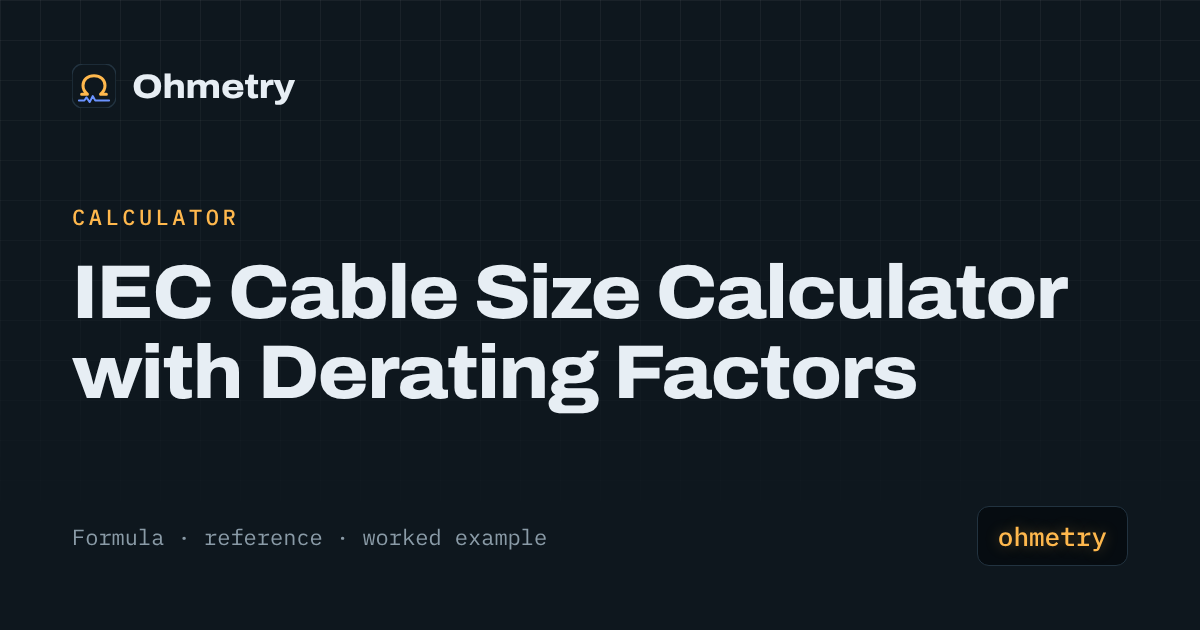
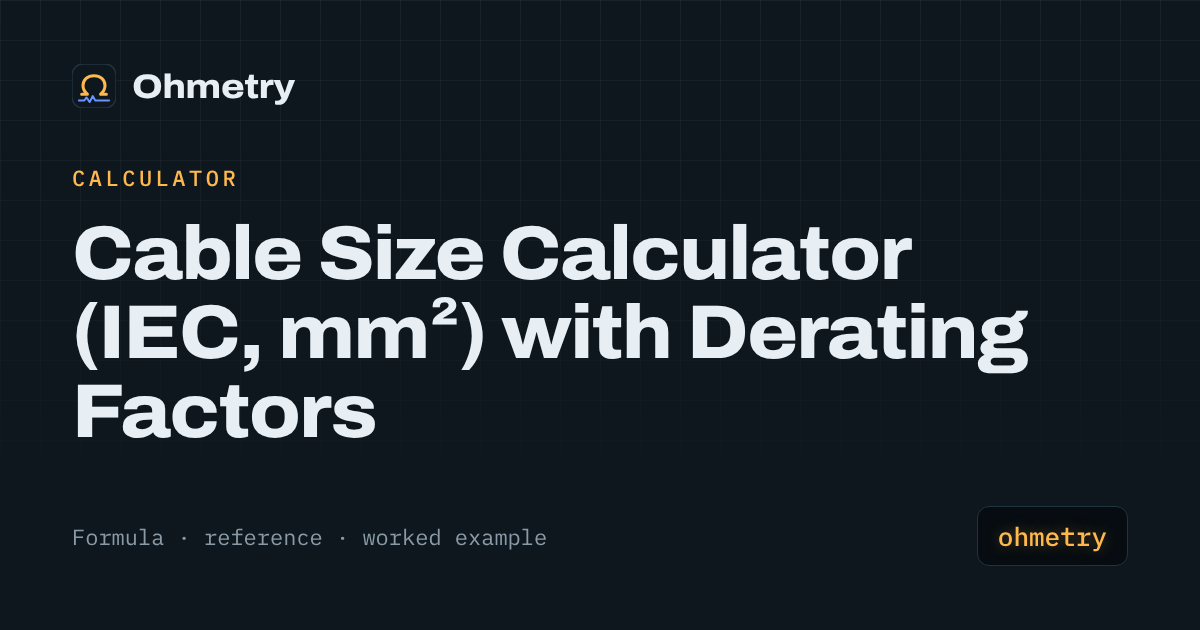
Separate NEC and IEC cable pages, add earth cable wording, extend kW to amps chart to 2,000 kW
Driven by the queries-by-page report (2026-11-04): 'cable size calculator' queries landed on the NEC wire-size page while the IEC
page ranked behind it; earth cable queries landed on cable and wire pages; 2000 kW and 350 kW to amps are searched.

Claude-Session: https://claude.ai/code/session_01P7VZ8UCLuzA13PXkdqGsAp

Changed region(s): [[0.0617, 0.3317, 0.8942, 0.6937], [0.0617, 0.2714, 0.2158, 0.3016]]

diff --git a/src/lib/calc/charts.ts b/src/lib/calc/charts.ts
@@ -24,7 +24,7 @@ const fixed = (n: number, d: number) => n.toLocaleString('en-US', { minimumFract
 const auto = (n: number) => (n < 10 ? fixed(n, 2) : n < 100 ? fixed(n, 1) : fixed(n, 0));
 const volts = (v: number) => `${v} V`;
 
-export const KW_ROWS = [0.5, 1, 1.5, 2, 2.2, 3, 3.7, 4, 5, 5.5, 5.9, 6, 7.2, 7.5, 7.6, 8, 9, 10, 11, 12, 15, 18.5, 20, 22, 25, 30, 37, 40, 45, 50, 55, 75, 90, 100, 150, 200];
+export const KW_ROWS = [0.5, 1, 1.5, 2, 2.2, 3, 3.7, 4, 5, 5.5, 5.9, 6, 7.2, 7.5, 7.6, 8, 9, 10, 11, 12, 15, 18.5, 20, 22, 25, 30, 37, 40, 45, 50, 55, 75, 90, 100, 150, 200, 250, 300, 350, 400, 500, 750, 1000, 1500, 2000];
 export const AMP_ROWS = [5, 10, 15, 20, 30, 40, 50, 60, 80, 100, 150, 200];
 export const WATT_ROWS = [10, 25, 40, 60, 100, 140, 150, 200, 250, 300, 400, 500, 600, 700, 750, 800, 900, 1000, 1100, 1200, 1300, 1400, 1440, 1500, 1600, 1800, 2000, 2200, 2400, 2500, 3000, 3300, 3500, 3600, 4000, 4500, 5000, 5500, 6000, 7500, 8000, 10000];
 export const TRANSFORMER_KVA = [15, 30, 45, 75, 112.5, 150, 225, 300, 500, 750, 1000, 1500, 2000, 2500];

diff --git a/src/data/calculators.ts b/src/data/calculators.ts
@@ -60,7 +60,7 @@ export const guides = [
 ];
 
 export const charts = [
-  { slug: 'kw-to-amps-chart', name: 'kW to amps chart', blurb: 'Line current for 0.5 to 200 kW, single-phase and three-phase, 120 to 600 V including 230 and 400 V.', hub: 'electrical' as HubId },
+  { slug: 'kw-to-amps-chart', name: 'kW to amps chart', blurb: 'Line current for 0.5 to 2,000 kW, single-phase and three-phase, 120 to 600 V including 230 and 400 V.', hub: 'electrical' as HubId },
   { slug: 'amps-to-kw-chart', name: 'Amps to kW chart', blurb: 'Real power for 5 to 200 A at the common voltages.', hub: 'electrical' as HubId },
   { slug: 'watts-to-amps-chart', name: 'Watts to amps chart', blurb: 'Current for 10 to 10,000 W from 12 V DC to 240 V AC.', hub: 'electrical' as HubId },
   { slug: 'breaker-amps-to-watts-chart', name: 'Breaker amps to watts', blurb: 'Continuous load that 15 to 200 A breakers support.', hub: 'electrical' as HubId },

diff --git a/src/lib/calc/charts.test.ts b/src/lib/calc/charts.test.ts
@@ -12,7 +12,12 @@ describe('reference charts', () => {
     expect(cell(kwToAmpsChart('single'), '10', '240 V')).toBe('41.7');
   });
 
-  it('amps to kW: 40 A at 240 V is 9.60 kW; 60 A three-phase at 480 V, PF 0.9 is 44.89 kW', () => {
+  it('kW to amps, large loads: 350 kW and 2,000 kW three-phase at 400 V, PF 0.9, are 561 A and 3,208 A (by hand: kW x 1000 / (1.7321 x 400 x 0.9))', () => {
+    expect(cell(kwToAmpsChart('three'), '350', '400 V')).toBe('561');
+    expect(cell(kwToAmpsChart('three'), '2000', '400 V')).toBe('3,208');
+  });
+
+    it('amps to kW: 40 A at 240 V is 9.60 kW; 60 A three-phase at 480 V, PF 0.9 is 44.89 kW', () => {
     expect(cell(ampsToKwChart('single'), '40', '240 V')).toBe('9.60');
     expect(cell(ampsToKwChart('three'), '60', '480 V')).toBe('44.89');
   });

diff --git a/src/data/site.ts b/src/data/site.ts
@@ -24,7 +24,7 @@ export const site = {
 };
 
 /** Shown on the home page. Update when the test count changes (`npm test`). */
-export const testCount = 278;
+export const testCount = 279;
 
 export const toolkitReady = Boolean(site.gumroadUrl);
 
